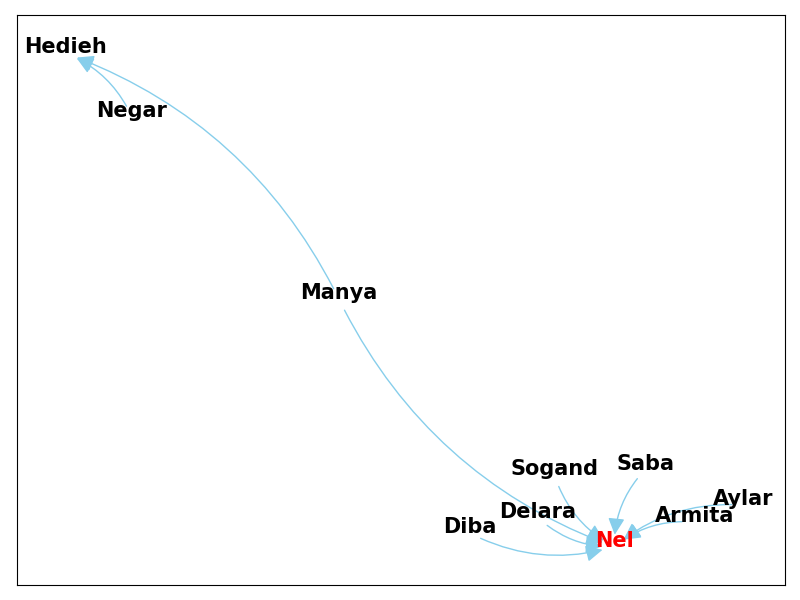
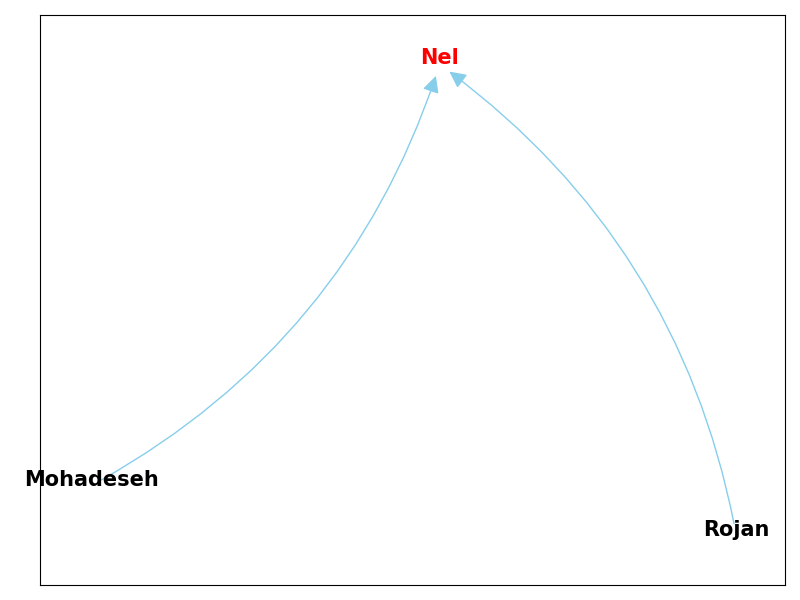
Correction for simplifying debts. In new steps it only calculates debts which are not payed!

diff --git a/database/db_operations.py b/database/db_operations.py
@@ -290,12 +290,28 @@ def add_recurrent_expense(username, user_id, label, amount, days, category, paid
     connection.close()
     
 
-def update_debt_status(debt_id,status):
+def update_debt_status(debt,status):
+    debt_id = debt[0]
+    debt_for_what = debt[1]
+    debt_for_what_id = debt[2]
+    debtor = debt[-4]
+    creditor = debt[-3]
     connection = get_connection()
     cursor = connection.cursor()
     cursor.execute('''
         UPDATE simplified_debts SET status = ? WHERE debt_id = ?
     ''', (status, debt_id))
+
+    if debt_for_what == "friend":
+        cursor.execute('''
+        UPDATE friend_debts SET status = ? WHERE friendship_id = ?
+    ''', (status, debt_for_what_id))
+        
+    elif debt_for_what == "group":
+        cursor.execute('''
+        UPDATE debts SET status = ? WHERE group_id = ? and debtor_name = ? and creditor_name = ?
+    ''', (status, debt_for_what_id, debtor, creditor, ))
+
     connection.commit()
     connection.close()
 
@@ -477,8 +493,8 @@ def get_friend_debts_by_group_id(friendship_id):
     connection=get_connection()
     cursor=connection.cursor()
     cursor.execute('''
-        SELECT * FROM friend_debts WHERE friendship_id = ?
-    ''', (friendship_id, ))
+        SELECT * FROM friend_debts WHERE friendship_id = ? and status = ?
+    ''', (friendship_id, "Not Paid!"))
     
     #fetch the first matching row
     debts=cursor.fetchall()

diff --git a/GUI/DebtsPage.py b/GUI/DebtsPage.py
@@ -120,7 +120,7 @@ def pay_cash(ui, btn, debt, username):
     ui.CashPaidLabel.setObjectName("CashPaidLabel")
     layout.addWidget(ui.CashPaidLabel)
     ui.CashPaidLabel.setText("Paid by cash!")
-    update_debt_status(debt_id,"Paid")
+    update_debt_status(debt,"Paid")
     
 
 
@@ -155,7 +155,7 @@ def pay_online(ui, btn, debt, username):
         print("Cur_bal is" , current_balance)
         new_balance = current_balance - debt_amount
         if new_balance >= 0:
-            update_debt_status(debt_id,"Paid")
+            update_debt_status(debt,"Paid")
             update_balance(username, new_balance)
             ui.CashPaidLabel.setText("Paid Online!")
         else:
@@ -175,7 +175,7 @@ def pay_online(ui, btn, debt, username):
         if new_balance >= 0:
             update_balance(username, new_balance)
             add_notification(creditor, username, debt_id, debt_amount)
-            update_debt_status(debt_id,"pending")
+            update_debt_status(debt,"pending")
         else:
             ui.CashPaidLabel.setText("You don't have enough Money!")
 

diff --git a/GUI/NotificationPage.py b/GUI/NotificationPage.py
@@ -74,6 +74,14 @@ def show_all_notifications(user, ui):
 
 def verified_payment(ui, btn, debt, username):
     debt_id, debtor, amount = debt
+    connection=get_connection()
+    cursor=connection.cursor()
+    cursor.execute('''
+        SELECT * FROM simplified_debts WHERE debt_id = ?
+    ''', (debt_id, ))
+
+    debt=cursor.fetchone()
+    connection.close()
     Verified_btn, Unverified_btn, btns_frame, message = btn
     layout = btns_frame.layout()
     while layout.count():
@@ -84,7 +92,7 @@ def verified_payment(ui, btn, debt, username):
 
     message.setText("Verified")
 
-    update_debt_status(debt_id,"Paid")
+    update_debt_status(debt,"Paid")
     current_balance = get_balance(username)[0]
     new_balance = current_balance + amount
 
@@ -106,7 +114,7 @@ def unverified_payment(ui, btn, debt, user):
     message.setText("Denied")
 
 
-    update_debt_status(debt_id,"Not Paid!")
+    update_debt_status(debt,"Not Paid!")
     current_balance = get_balance(debtor)[0]
     new_balance = current_balance + amount
 
